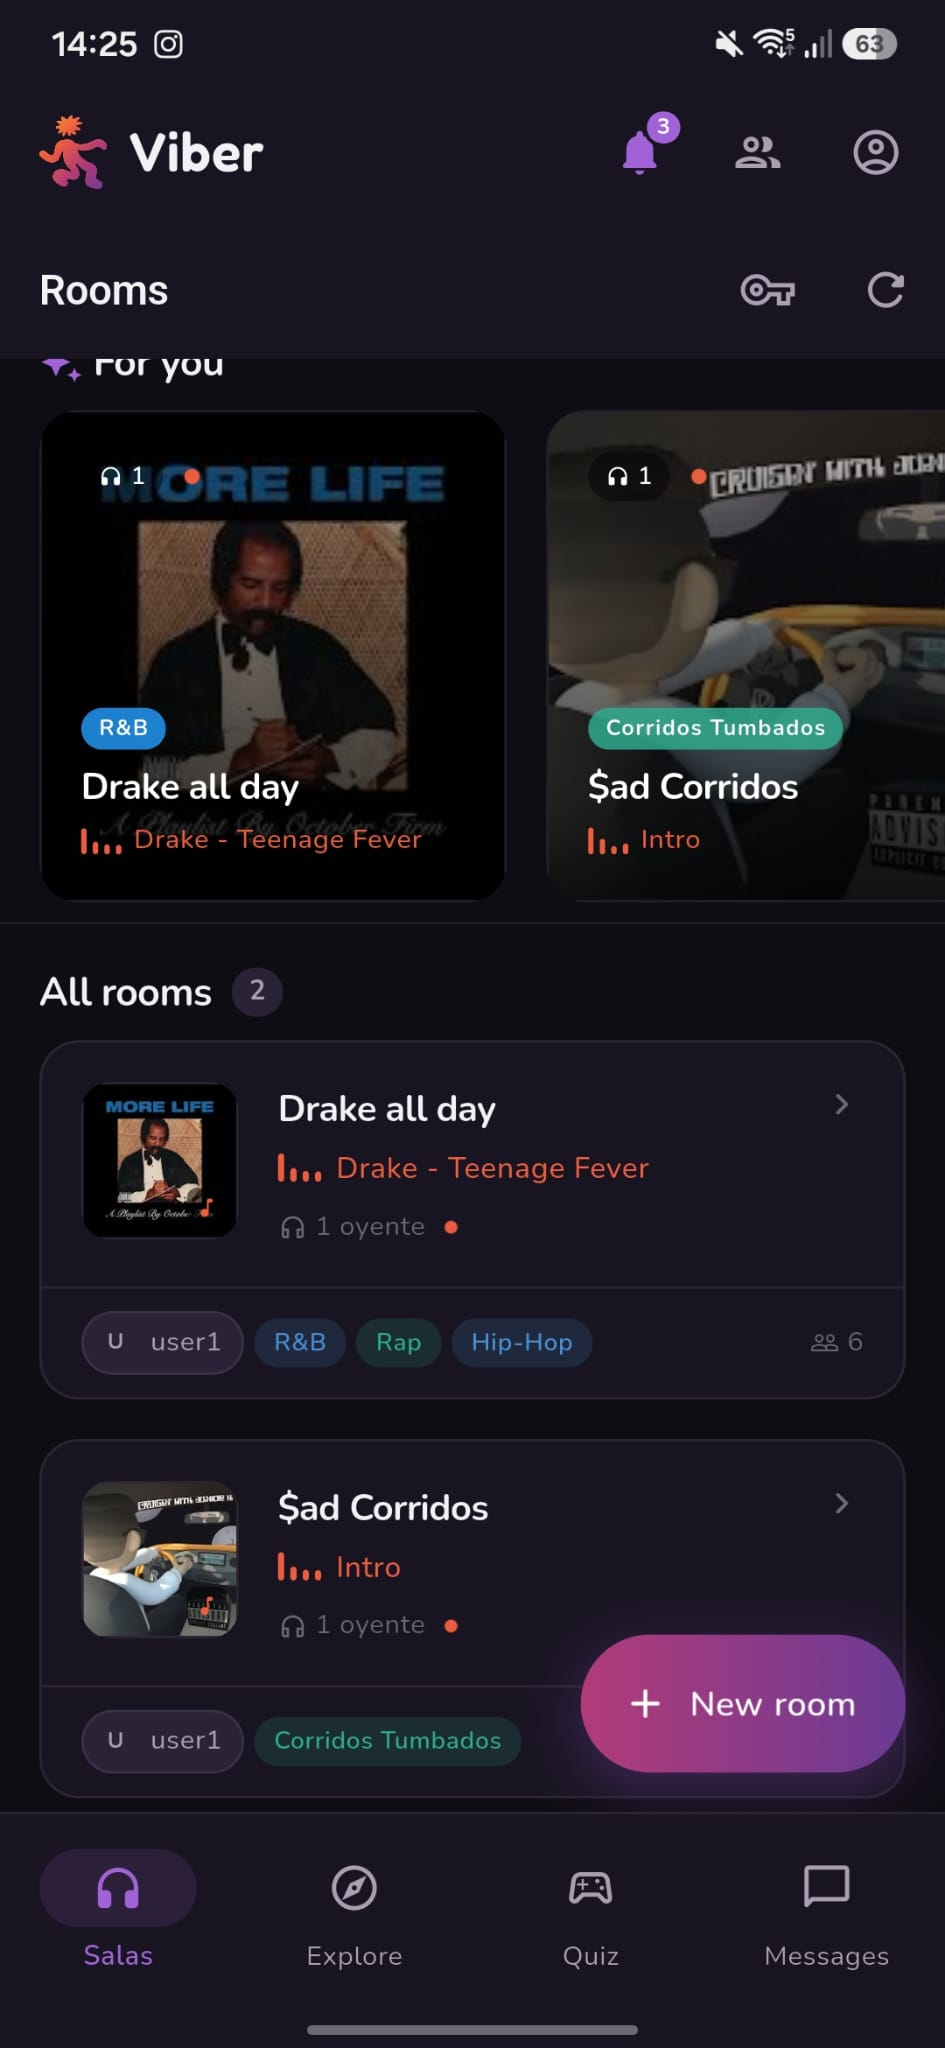
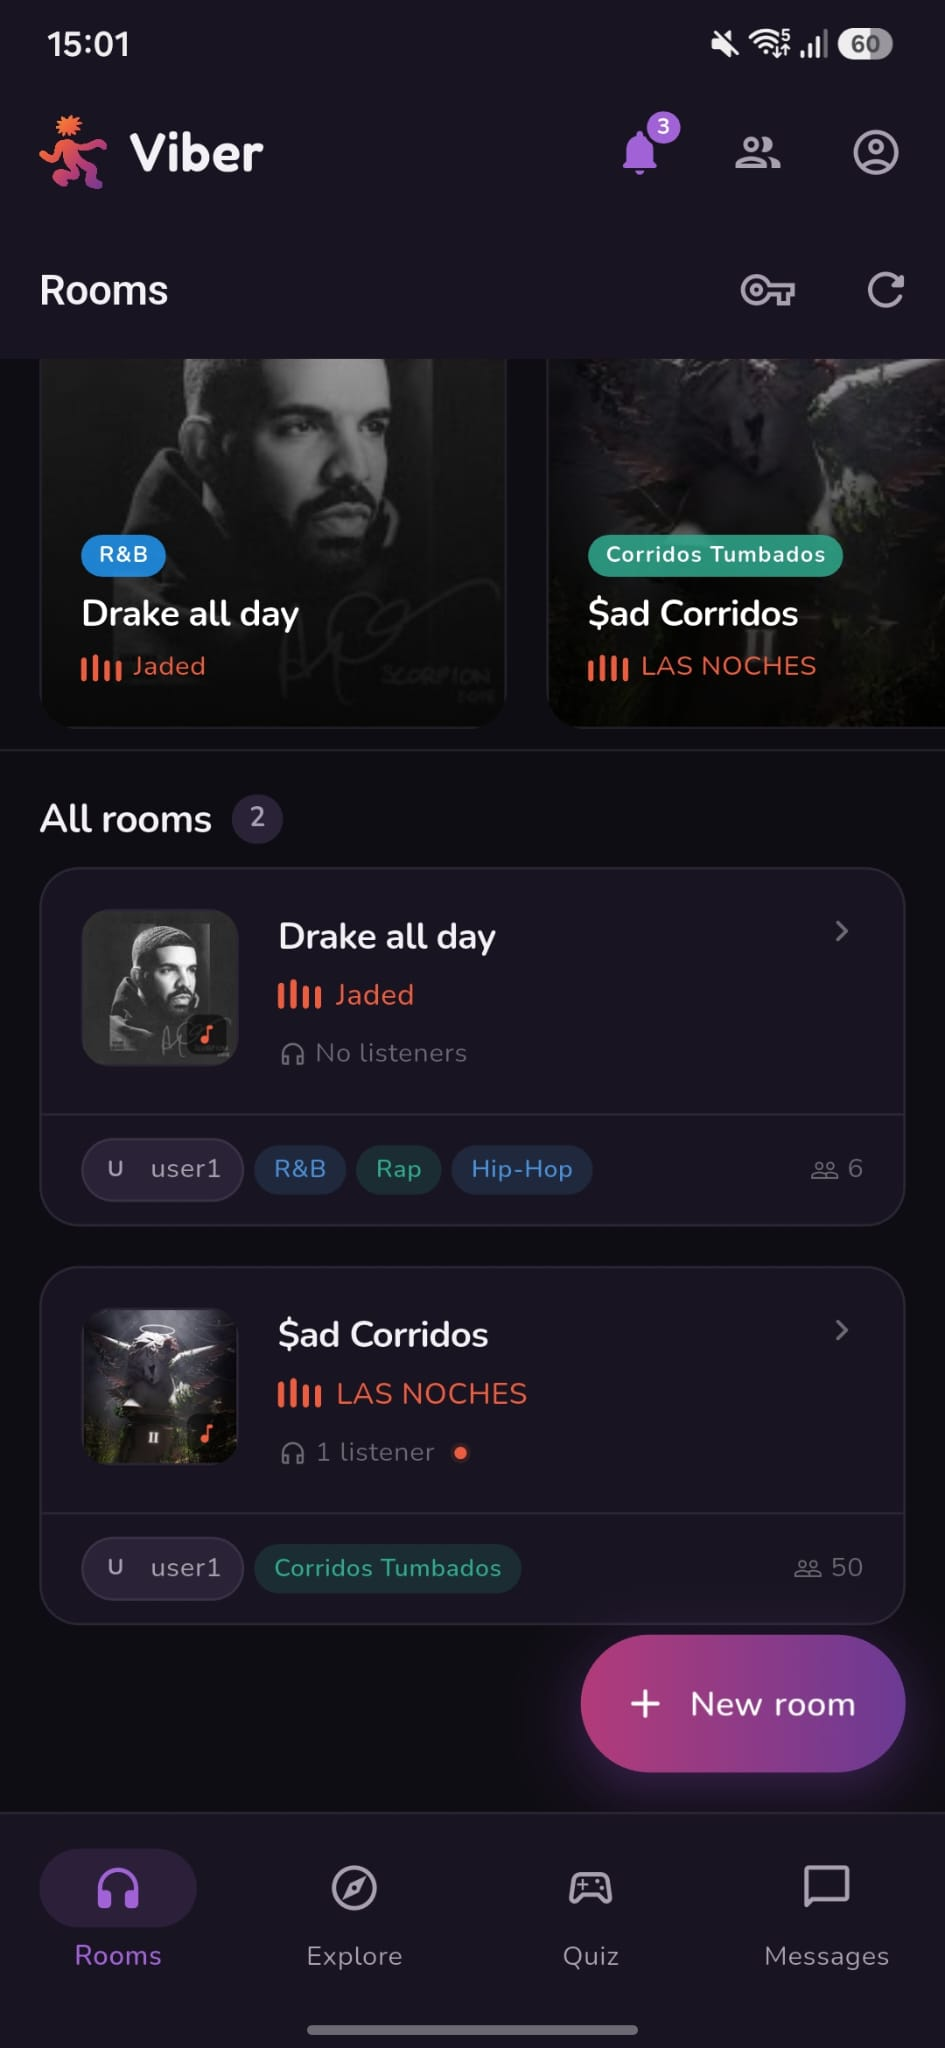
Translate the group permissions section
The group info screen showed a PERMISOS heading and Todos buttons in English
mode. Two more shapes the scanners did not cover: a heading passed positionally
to a helper, and the confirm labels of the leave and delete dialogs, also
positional. Named-argument scanning does not see either.

Everyone/Admins now come from keys as well, and the room filter chip that read
Todos uses one too.

Also replaces the room list screenshot with one taken after the earlier fixes,
so the README no longer shows "1 oyente" and "Salas" in an English UI.

diff --git a/viber_frontend/lib/features/groups/presentation/group_info_screen.dart b/viber_frontend/lib/features/groups/presentation/group_info_screen.dart
@@ -124,7 +124,7 @@ class _GroupInfoScreenState extends State<GroupInfoScreen> {
   bool _pendingConfirm = false;
 
   Future<void> _leave() async {
-    await _confirm('groups.leave_group'.tr(), 'groups.leave_confirm'.tr(namedArgs: {'name': '${_group!.name}'}), 'Salir', danger: true);
+    await _confirm('groups.leave_group'.tr(), 'groups.leave_confirm'.tr(namedArgs: {'name': '${_group!.name}'}), 'common.leave'.tr(), danger: true);
     if (!_pendingConfirm) return;
     try {
       await _service.leave(_group!.id);
@@ -135,7 +135,7 @@ class _GroupInfoScreenState extends State<GroupInfoScreen> {
   }
 
   Future<void> _delete() async {
-    await _confirm('groups.delete_group'.tr(), 'groups.delete_confirm'.tr(namedArgs: {'name': '${_group!.name}'}), 'Borrar', danger: true);
+    await _confirm('groups.delete_group'.tr(), 'groups.delete_confirm'.tr(namedArgs: {'name': '${_group!.name}'}), 'common.delete'.tr(), danger: true);
     if (!_pendingConfirm) return;
     try {
       await _service.deleteGroup(_group!.id);
@@ -238,7 +238,7 @@ class _GroupInfoScreenState extends State<GroupInfoScreen> {
     return Column(
       crossAxisAlignment: CrossAxisAlignment.start,
       children: [
-        _sectionHeader('PERMISOS'),
+        _sectionHeader('groups.permissions_header'.tr()),
         _permissionRow('groups.perm_invite'.tr(), g.invitePolicy,
             (p) => _service.updatePermissions(g.id, invitePolicy: p)),
         _permissionRow('groups.edit_info'.tr(), g.editInfoPolicy,
@@ -294,8 +294,8 @@ class _GroupInfoScreenState extends State<GroupInfoScreen> {
         border: Border.all(color: appDivider),
       ),
       child: Row(mainAxisSize: MainAxisSize.min, children: [
-        seg('Todos', GroupPermission.allMembers),
-        seg('Admins', GroupPermission.adminsOnly),
+        seg('groups.perm_all_members'.tr(), GroupPermission.allMembers),
+        seg('groups.perm_admins_only'.tr(), GroupPermission.adminsOnly),
       ]),
     );
   }

diff --git a/viber_frontend/lib/features/rooms/presentation/explore_screen.dart b/viber_frontend/lib/features/rooms/presentation/explore_screen.dart
@@ -345,7 +345,7 @@ class _ExploreScreenState extends State<ExploreScreen> {
                 runSpacing: spacingXs,
                 children: [null, 5, 10, 20, 50].map((v) {
                   final sel = tmpMax == v;
-                  final label = v == null ? 'Todos' : '≤$v';
+                  final label = v == null ? 'explore.filter_any'.tr() : '≤$v';
                   return GestureDetector(
                     onTap: () => setSheet(() => tmpMax = v),
                     child: Container(
